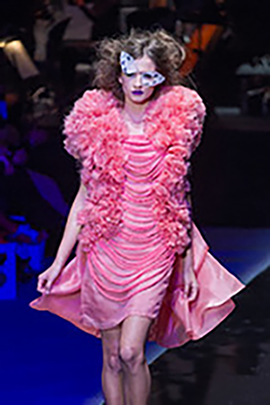
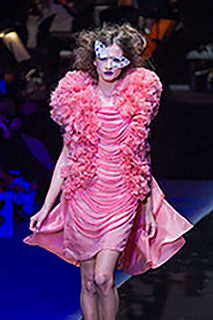
pray

diff --git a/project/images/blog.html b/project/images/blog.html
@@ -19,7 +19,6 @@
                 showSlides(slideIndex = n);
             }
 
-            
             function showSlides(n) {
                 var i;
                 var slides = document.getElementsByClassName("mySlides");
@@ -88,13 +87,13 @@
             <img src="fashionsketch.png" alt="outfit sketches" style="width: 50%;" id="firstImage">
         </div>
         <div class="mySlides fade">
-            <img src="magcover.jpg" alt="magazine cover" style="width: 30%;" class="img1"> 
+            <img src="magcover.jpg" alt="magazine cover" style="width: 26%;" class="img1"> 
         </div>
         <div class="mySlides fade">
-            <img src="catwalk.png" alt="pink dress on catwalk" style="width: 30%;" class="img2"> 
+            <img src="catwalk.png" alt="pink dress on catwalk" style="width: 23%;" class="img2"> 
         </div>
         <div class="mySlides fade">
-            <img src="catwalk2.jpg" alt="multiple girls on catwalk" style="width: 30%;" class="img2"> 
+            <img src="catwalk2.jpg" alt="multiple girls on catwalk" style="width: 33%;" class="img2"> 
         </div>
     </div>
 

diff --git a/project/images/blog.css b/project/images/blog.css
@@ -19,6 +19,7 @@ a:visited {color:#f7f2e8;}
 a:hover {color:#f7f2e8;}
 a:active {color:#f7f2e8;}
 
+
 footer {
     font-family: Verdana, Geneva, Tahoma, sans-serif;
     margin-bottom: 10px;
